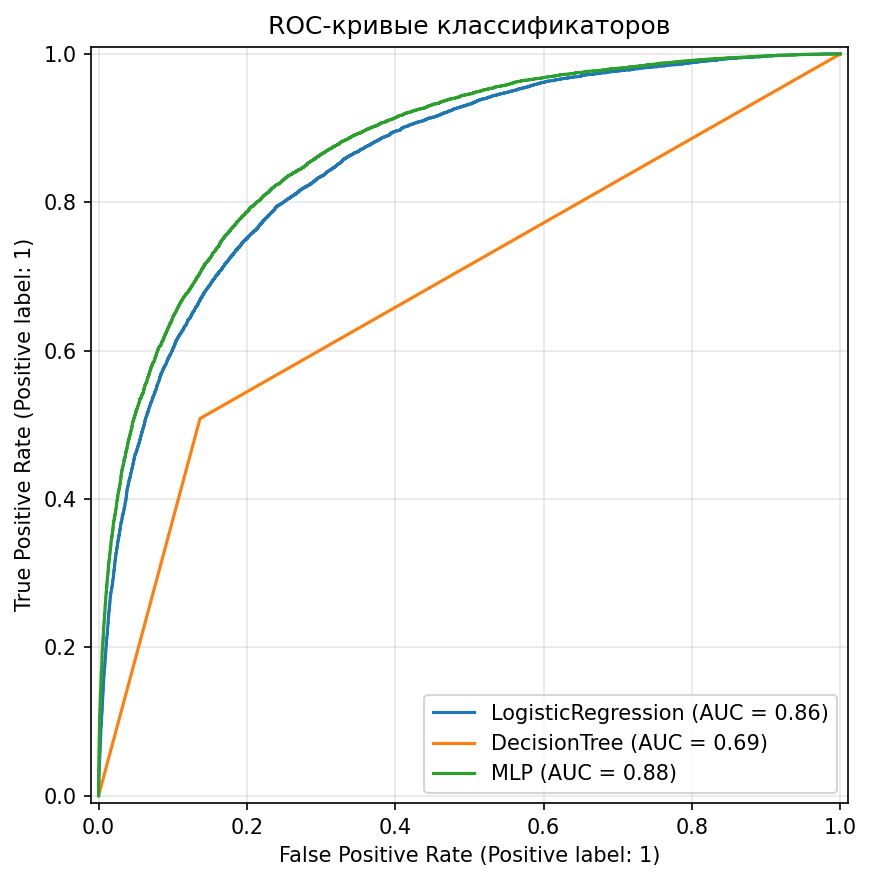
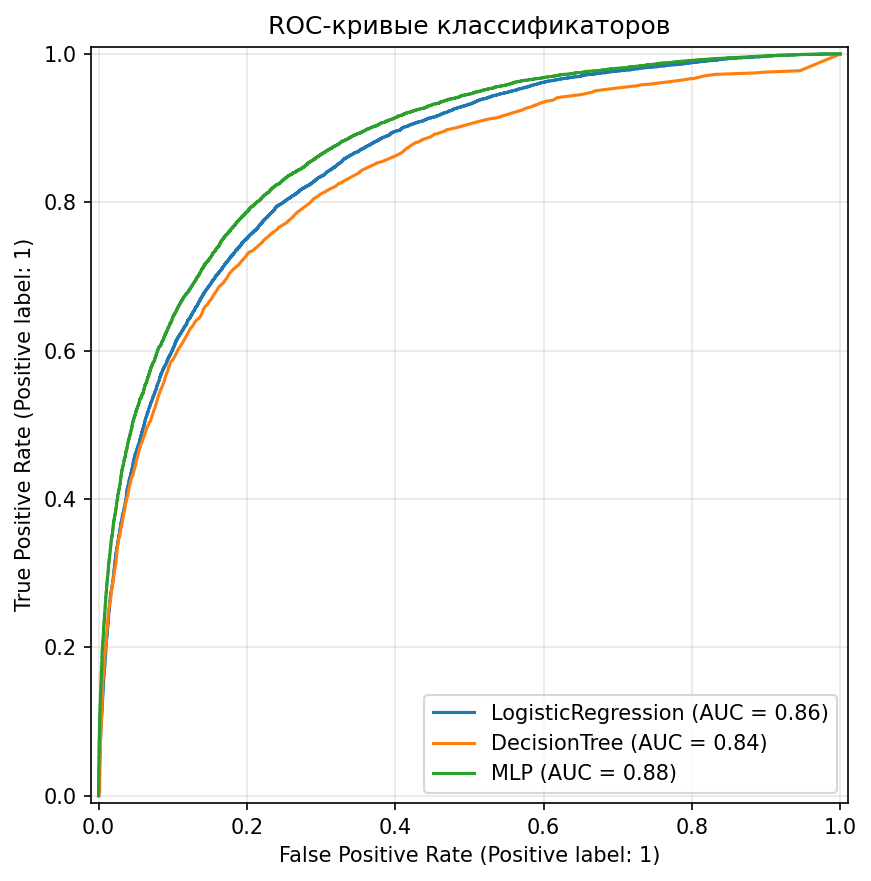
вот такие пироги

diff --git a/course_work/classifier.py b/course_work/classifier.py
@@ -17,7 +17,8 @@ from sklearn.metrics import (
     roc_auc_score,
     RocCurveDisplay,
 )
-from sklearn.model_selection import train_test_split
+from sklearn.model_selection import StratifiedKFold, cross_val_score, train_test_split
+from sklearn.base import clone
 from sklearn.neural_network import MLPClassifier
 from sklearn.preprocessing import StandardScaler
 from sklearn.tree import DecisionTreeClassifier
@@ -29,7 +30,10 @@ COL_N = "Humidity3pm"
 COL_M = "Rainfall"
 COL_TARGET = "RainTomorrow"
 TEST_SIZE = 0.3  # 70% train / 30% test, как в лабораторных
+CV_FOLDS = 5
 RANDOM_STATE = 42
+# Ограничение глубины дерева против переобучения (можно пробовать 3, 5, 7, 10, 15)
+TREE_MAX_DEPTH = 10
 
 
 def _prepare_xy(df: pd.DataFrame):
@@ -57,6 +61,14 @@ def _smote_train(X_train, y_train):
         return X_res, y_res
     except ImportError:
         return X_train, y_train
+
+
+def _evaluate_with_cv(model, X: np.ndarray, y: np.ndarray, cv: int = CV_FOLDS, scoring: str = "f1") -> dict:
+    """StratifiedKFold CV: объективная оценка при дисбалансе и склонности к переобучению."""
+    skf = StratifiedKFold(n_splits=cv, shuffle=True, random_state=RANDOM_STATE)
+    # clone(model) — незафитированная копия (модель уже обучена на single split)
+    scores = cross_val_score(clone(model), X, y, cv=skf, scoring=scoring)
+    return {"mean": scores.mean(), "std": scores.std(), "scores": scores}
 
 
 def _train_and_evaluate(model, X_train, y_train, X_test, y_test, name: str) -> dict:
@@ -94,34 +106,40 @@ def run_classifiers(df: pd.DataFrame, use_smote: bool = True) -> None:
         X_train_s, y_train = _smote_train(X_train_s, y_train)
         print("  Применён SMOTE на обучающей выборке.")
 
-    # class_weight='balanced' повышает recall для класса Yes (дождь) при дисбалансе 78/22
+    # class_weight='balanced' повышает recall для Yes; max_depth — против переобучения дерева
     models = [
         (LogisticRegression(max_iter=500, random_state=RANDOM_STATE, class_weight="balanced"), "LogisticRegression"),
-        (DecisionTreeClassifier(random_state=RANDOM_STATE, class_weight="balanced"), "DecisionTree"),
+        (DecisionTreeClassifier(random_state=RANDOM_STATE, class_weight="balanced", max_depth=TREE_MAX_DEPTH), "DecisionTree"),
         (MLPClassifier(hidden_layer_sizes=(50,), max_iter=200, random_state=RANDOM_STATE), "MLP"),
     ]
 
     results = []
     for model, name in models:
         res = _train_and_evaluate(model, X_train_s, y_train, X_test_s, y_test, name)
+        # 5-fold StratifiedKFold для объективной оценки (recall/F1 скачут при дисбалансе)
+        cv_f1 = _evaluate_with_cv(model, X_train_s, y_train, cv=CV_FOLDS, scoring="f1")
+        cv_auc = _evaluate_with_cv(model, X_train_s, y_train, cv=CV_FOLDS, scoring="roc_auc")
+        res["cv_f1_mean"], res["cv_f1_std"] = cv_f1["mean"], cv_f1["std"]
+        res["cv_auc_mean"], res["cv_auc_std"] = cv_auc["mean"], cv_auc["std"]
         results.append(res)
 
         print(f"\n--- {name} ---")
         print("  Матрица ошибок:")
         print(res["confusion"])
-        print(f"  Accuracy = {res['accuracy']:.4f}, Precision = {res['precision']:.4f}, Recall = {res['recall']:.4f}, F1 = {res['f1']:.4f}, AUC = {res['auc']:.4f}")
+        print(f"  Single split: Accuracy = {res['accuracy']:.4f}, Precision = {res['precision']:.4f}, Recall = {res['recall']:.4f}, F1 = {res['f1']:.4f}, AUC = {res['auc']:.4f}")
+        print(f"  5-fold CV:    F1 = {res['cv_f1_mean']:.4f} ± {res['cv_f1_std']:.4f},  AUC = {res['cv_auc_mean']:.4f} ± {res['cv_auc_std']:.4f}")
 
-    # Сводная таблица
-    print("\n--- Сводная таблица метрик ---")
+    # Сводная таблица (single split + 5-fold CV)
+    print("\n--- Сводная таблица метрик (single split 70/30 + 5-fold CV) ---")
     table = pd.DataFrame(
         [
             {
                 "Модель": r["name"],
                 "Accuracy": f"{r['accuracy']:.4f}",
-                "Precision": f"{r['precision']:.4f}",
-                "Recall": f"{r['recall']:.4f}",
-                "F1": f"{r['f1']:.4f}",
-                "AUC": f"{r['auc']:.4f}",
+                "F1 (split)": f"{r['f1']:.4f}",
+                "F1 (CV)": f"{r['cv_f1_mean']:.4f}±{r['cv_f1_std']:.4f}",
+                "AUC (split)": f"{r['auc']:.4f}",
+                "AUC (CV)": f"{r['cv_auc_mean']:.4f}±{r['cv_auc_std']:.4f}",
             }
             for r in results
         ]
@@ -146,7 +164,7 @@ def plot_roc_curves(df: pd.DataFrame, use_smote: bool = True) -> None:
     fig, ax = plt.subplots(figsize=(8, 6))
     models = [
         (LogisticRegression(max_iter=500, random_state=RANDOM_STATE, class_weight="balanced"), "LogisticRegression"),
-        (DecisionTreeClassifier(random_state=RANDOM_STATE, class_weight="balanced"), "DecisionTree"),
+        (DecisionTreeClassifier(random_state=RANDOM_STATE, class_weight="balanced", max_depth=TREE_MAX_DEPTH), "DecisionTree"),
         (MLPClassifier(hidden_layer_sizes=(50,), max_iter=200, random_state=RANDOM_STATE), "MLP"),
     ]
     for model, name in models:
@@ -172,4 +190,50 @@ def run_task7(df: pd.DataFrame, use_smote: bool = True) -> None:
     run_classifiers(df, use_smote=use_smote)
     plot_roc_curves(df, use_smote=use_smote)
 
+    plot_tree_max_depth_sweep(df, use_smote=use_smote)
     print("\nЗадание 7 завершено. При дисбалансе классов ориентироваться на F1 и AUC, а не только на Accuracy.")
+
+
+def plot_tree_max_depth_sweep(df: pd.DataFrame, use_smote: bool = True) -> None:
+    """Перебор max_depth для дерева: график F1 и AUC (5-fold CV) от глубины."""
+    X, y = _prepare_xy(df)
+    X_train, X_test, y_train, y_test = train_test_split(
+        X, y, test_size=TEST_SIZE, random_state=RANDOM_STATE, stratify=y
+    )
+    scaler = StandardScaler()
+    X_train_s = scaler.fit_transform(X_train)
+    if use_smote:
+        X_train_s, y_train = _smote_train(X_train_s, y_train)
+
+    depths = [3, 5, 7, 10, 15]
+    f1_means, f1_stds = [], []
+    auc_means, auc_stds = [], []
+
+    for d in depths:
+        tree = DecisionTreeClassifier(
+            random_state=RANDOM_STATE, class_weight="balanced", max_depth=d
+        )
+        cv_f1 = _evaluate_with_cv(tree, X_train_s, y_train, cv=CV_FOLDS, scoring="f1")
+        cv_auc = _evaluate_with_cv(tree, X_train_s, y_train, cv=CV_FOLDS, scoring="roc_auc")
+        f1_means.append(cv_f1["mean"])
+        f1_stds.append(cv_f1["std"])
+        auc_means.append(cv_auc["mean"])
+        auc_stds.append(cv_auc["std"])
+
+    fig, axes = plt.subplots(1, 2, figsize=(10, 4))
+    axes[0].errorbar(depths, f1_means, yerr=f1_stds, capsize=4, marker="o")
+    axes[0].set_xlabel("max_depth")
+    axes[0].set_ylabel("F1 (5-fold CV)")
+    axes[0].set_title("DecisionTree: F1 от глубины дерева")
+    axes[0].grid(True, alpha=0.3)
+
+    axes[1].errorbar(depths, auc_means, yerr=auc_stds, capsize=4, marker="o", color="C1")
+    axes[1].set_xlabel("max_depth")
+    axes[1].set_ylabel("AUC (5-fold CV)")
+    axes[1].set_title("DecisionTree: AUC от глубины дерева")
+    axes[1].grid(True, alpha=0.3)
+
+    plt.tight_layout()
+    plt.savefig(FIGURES_DIR / "task7_tree_max_depth.png", dpi=150, bbox_inches="tight")
+    plt.close()
+    print("Сохранено: figures/task7_tree_max_depth.png (перебор max_depth 3,5,7,10,15)")

diff --git a/course_work/текст/ХОД_РАБОТЫ.md b/course_work/текст/ХОД_РАБОТЫ.md
@@ -151,6 +151,7 @@
 - [x] Метрики: матрица ошибок, Accuracy, Precision, Recall, F1, AUC; ROC-кривые — `task7_roc_curves.png`
 - [x] Балансировка: class_weight='balanced' (LogReg, Tree); SMOTE на train по умолчанию (use_smote=True) — улучшает recall для Yes
 - [x] Сводная таблица по моделям в консоли
+- [x] 5-fold StratifiedKFold для F1 и AUC (объективная оценка при дисбалансе и переобучении)
 
 **Проблемы и решения:**
 
